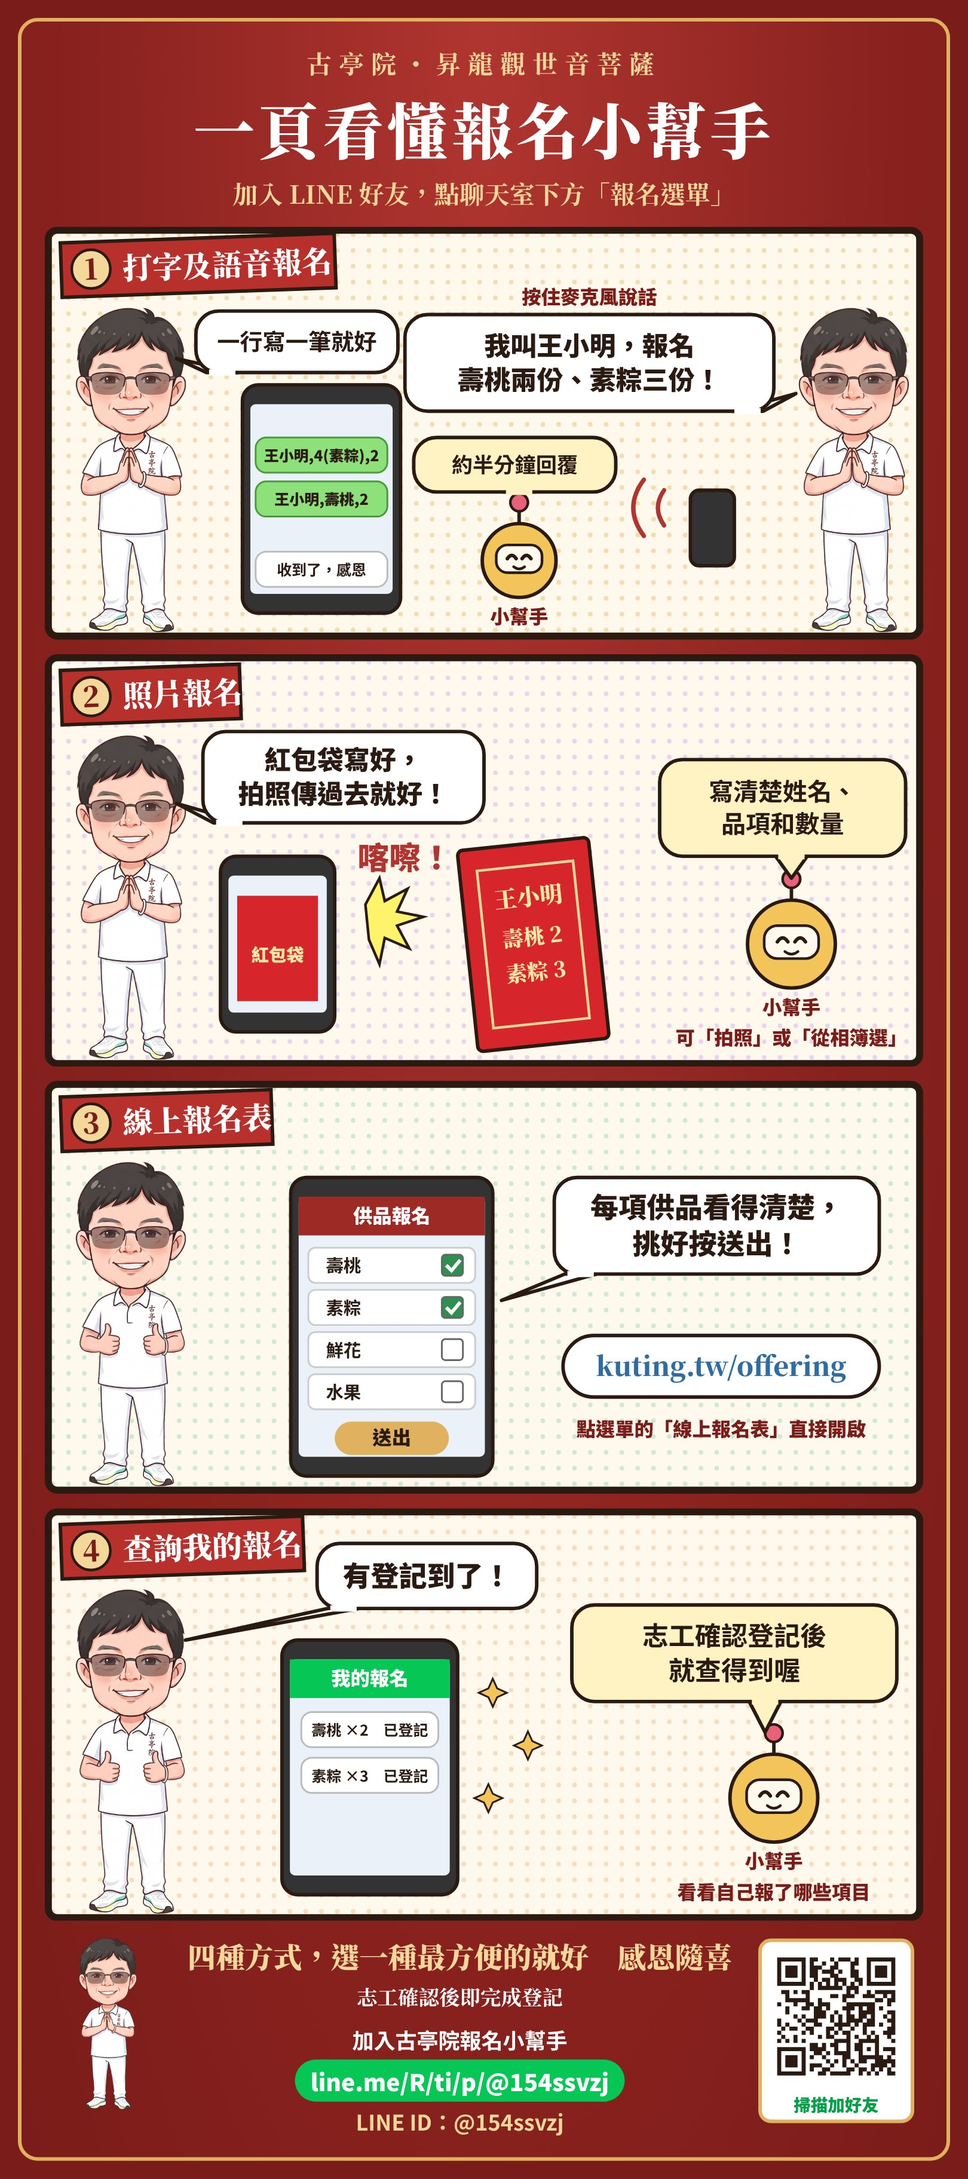
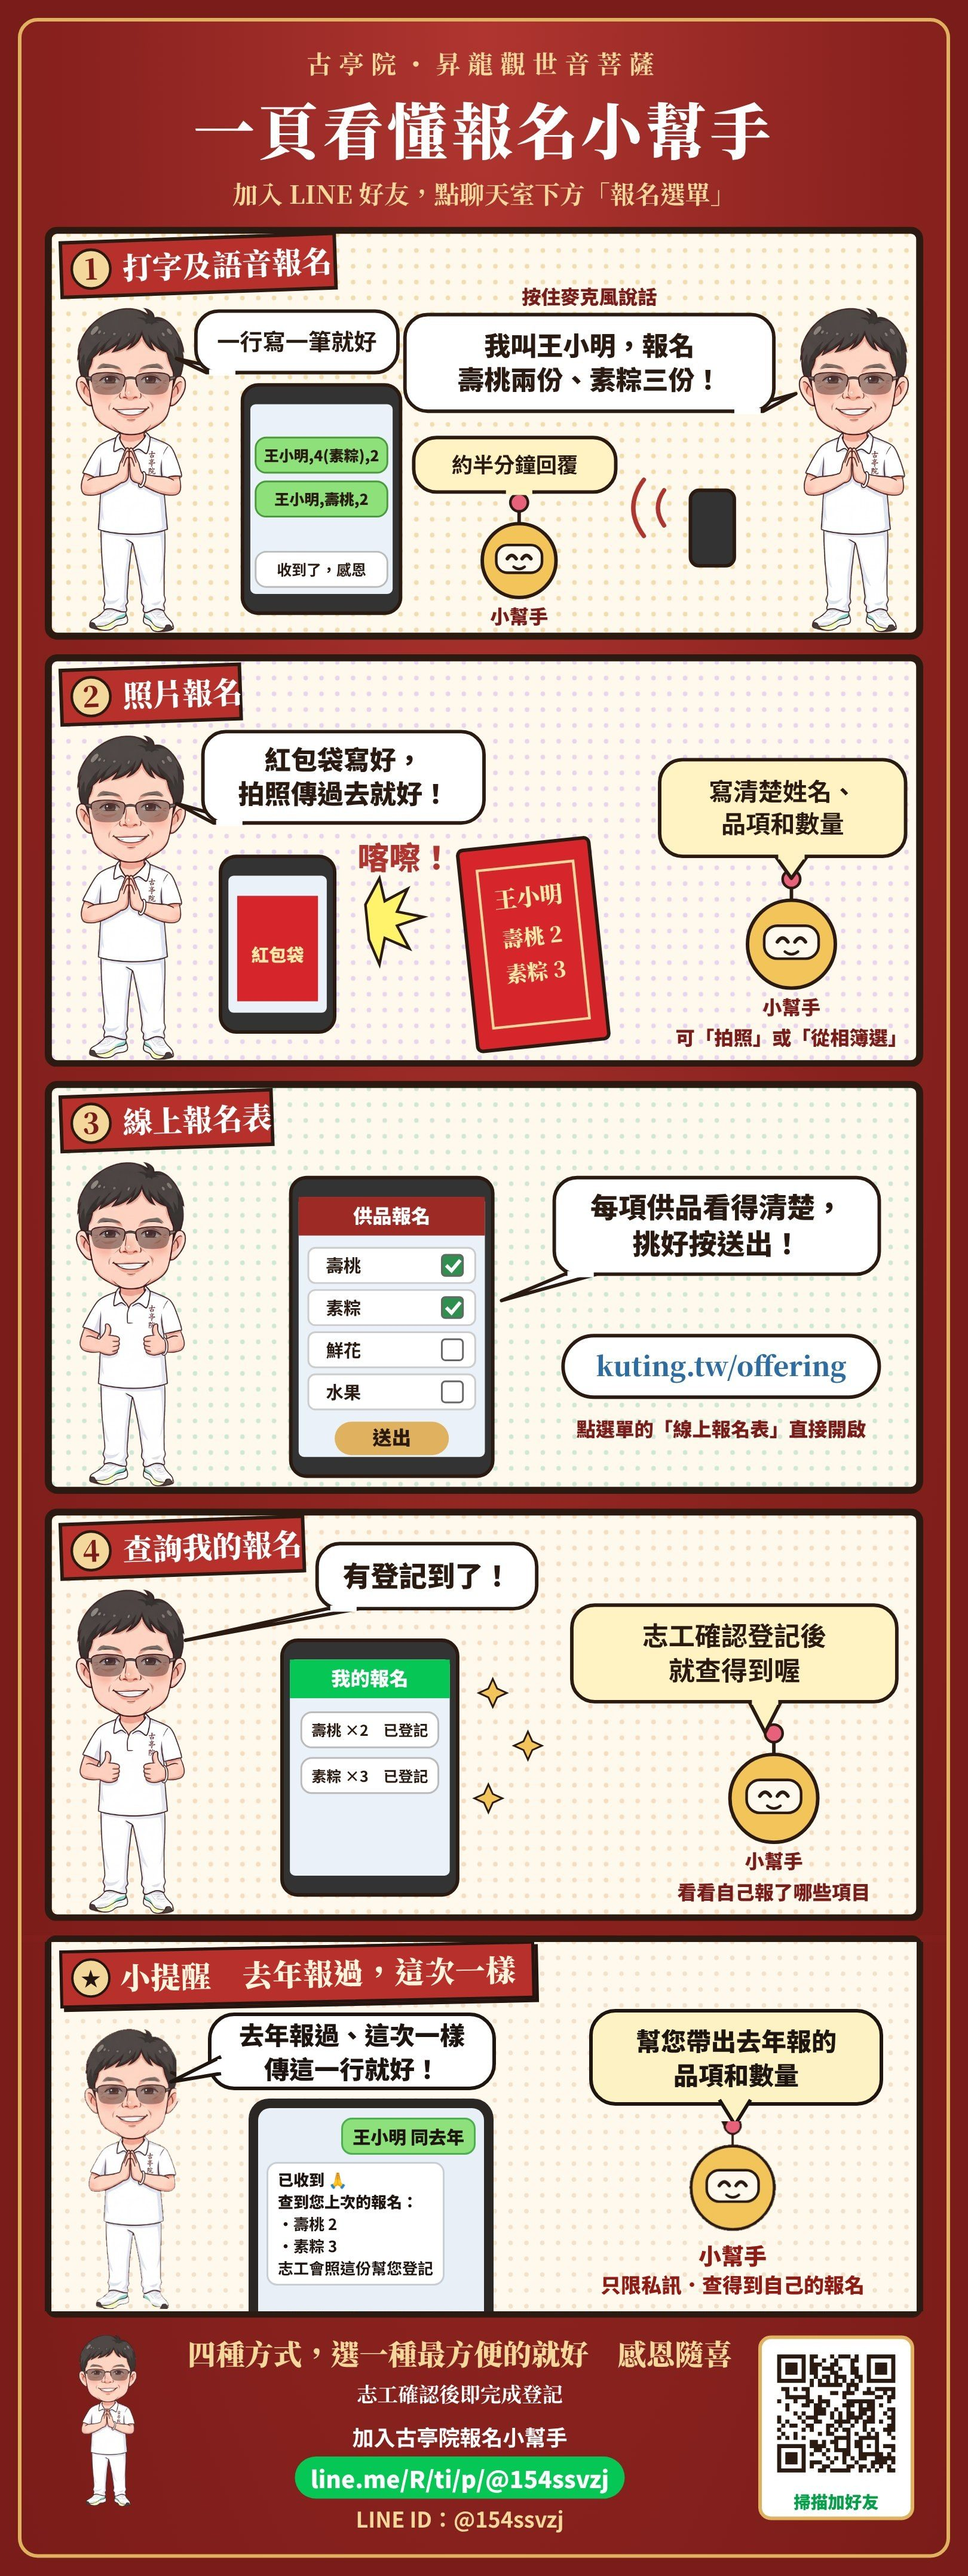
kuting.tw/line 說明長圖加「小提醒：去年報過，這次一樣」
Claude-Session: https://claude.ai/code/session_01K9VW95SRgBB7vfjjMctcES

diff --git a/line/index.html b/line/index.html
@@ -27,7 +27,7 @@ img{display:block;width:100%;max-width:720px;margin:0 auto}
   <a class="btn" href="https://line.me/R/ti/p/@154ssvzj">點我加入古亭院報名小幫手</a>
   <p>沒有自動打開時，請按上面的綠色按鈕（LINE ID：@154ssvzj）</p>
 </div>
-<a href="https://line.me/R/ti/p/@154ssvzj"><img src="guide.jpg" alt="一頁看懂報名小幫手：打字及語音報名、照片報名、線上報名表、查詢我的報名"></a>
+<a href="https://line.me/R/ti/p/@154ssvzj"><img src="guide.jpg?v=1151030" alt="一頁看懂報名小幫手：打字及語音報名、照片報名、線上報名表、查詢我的報名；去年報過、這次一樣，私訊「王小明 同去年」"></a>
 <script>
 // 從 LINE 點預覽卡片進來時，直接打開小幫手加好友頁
 location.replace('https://line.me/R/ti/p/@154ssvzj');
